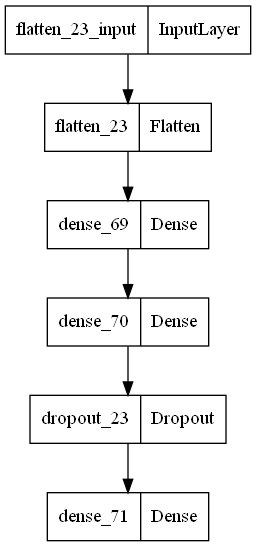
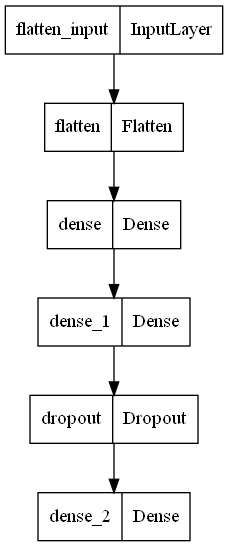
result after 1000 epochs

diff --git a/README.md b/README.md
@@ -26,3 +26,20 @@
     - example: for an image with dimensions 95x79 - the total number of coordinate sets should be 95*79
     - the number of coordinates should be exactly the same as the number of pixels in the image - this will give a 1:1 correspondence between coordinates and pixels
     - even though as the image changes the pixels in the image change - the coordinates will remain the same for each pixel.
+-------------------------------------------------------------
+# Model
+## Deep Neural Network with 2 layers  
+<img src="model.png">Model Architecture</img>
+
+### Current Model Hyperparameters  
+- Layers: 2
+- Neurons per layer: 1000
+- Loss Function: Huber
+- Number of Epochs: 1000
+- Batch Size: 10
+- Dropout rate: 0.25
+- Activation layer 1: ReLU
+- Activation layer 2: ReLU
+- Optimizer: SGD - gradient descent
+
+### Desired Model Hyperparameters
